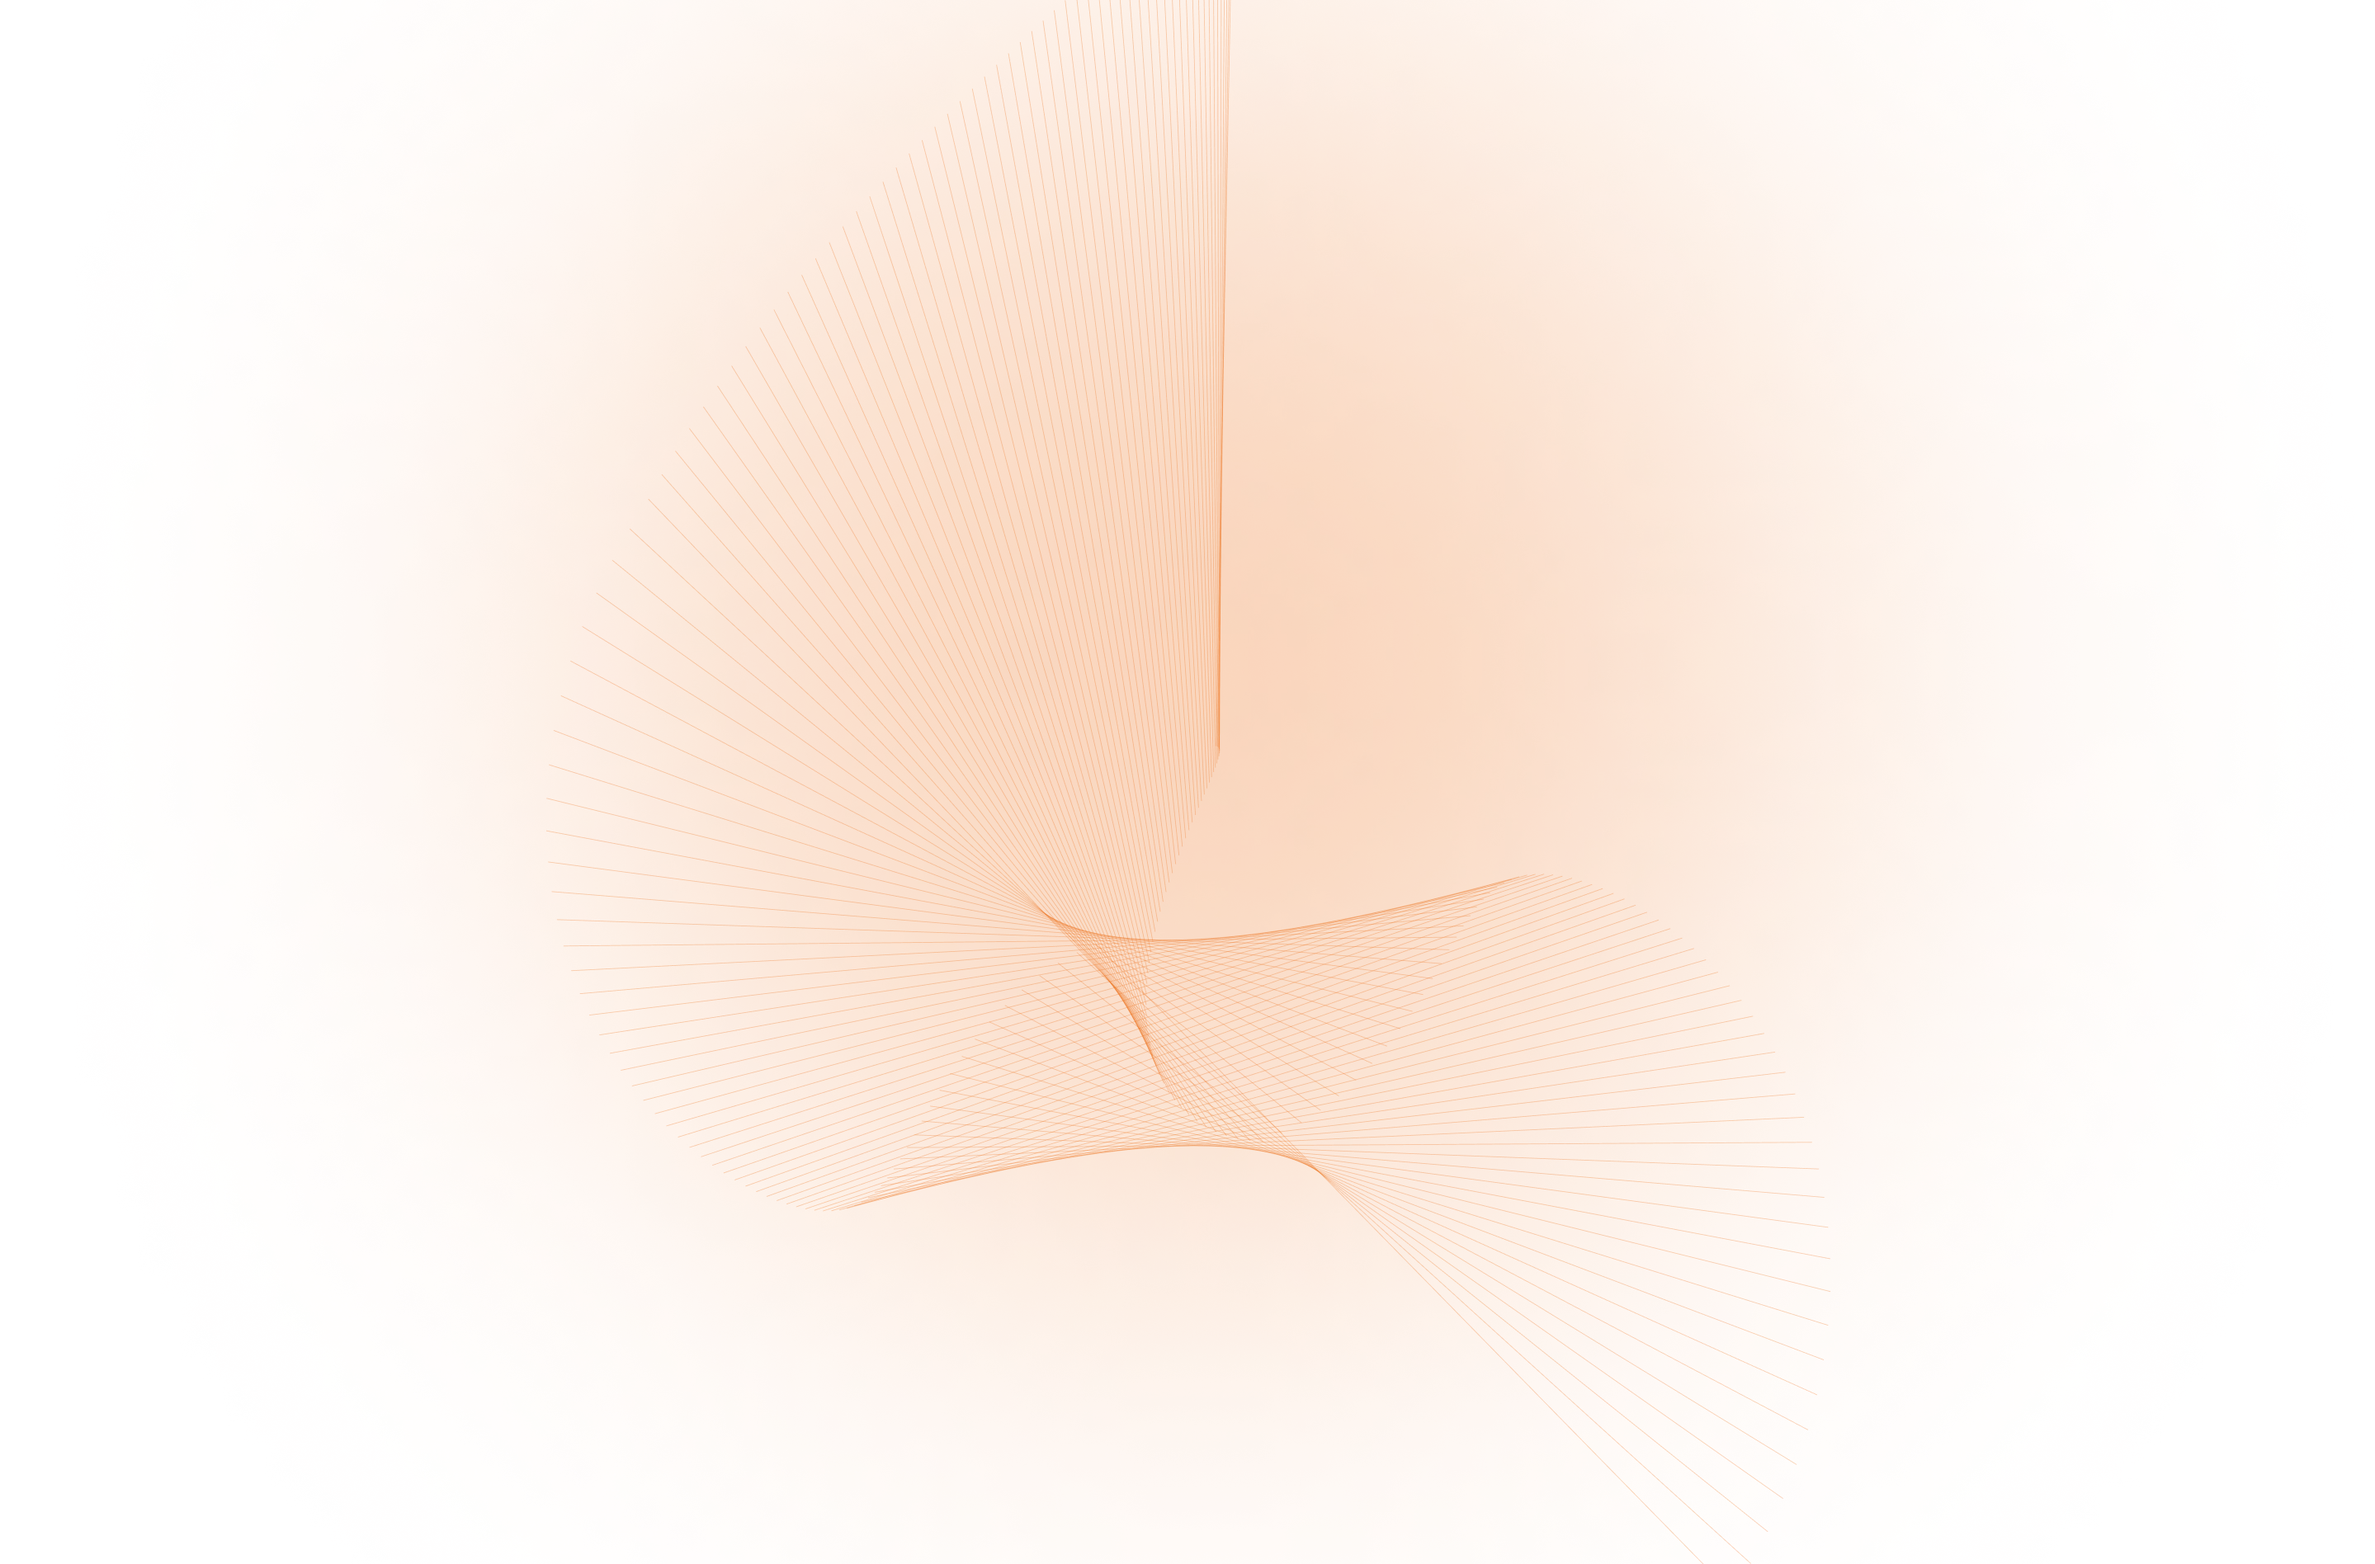
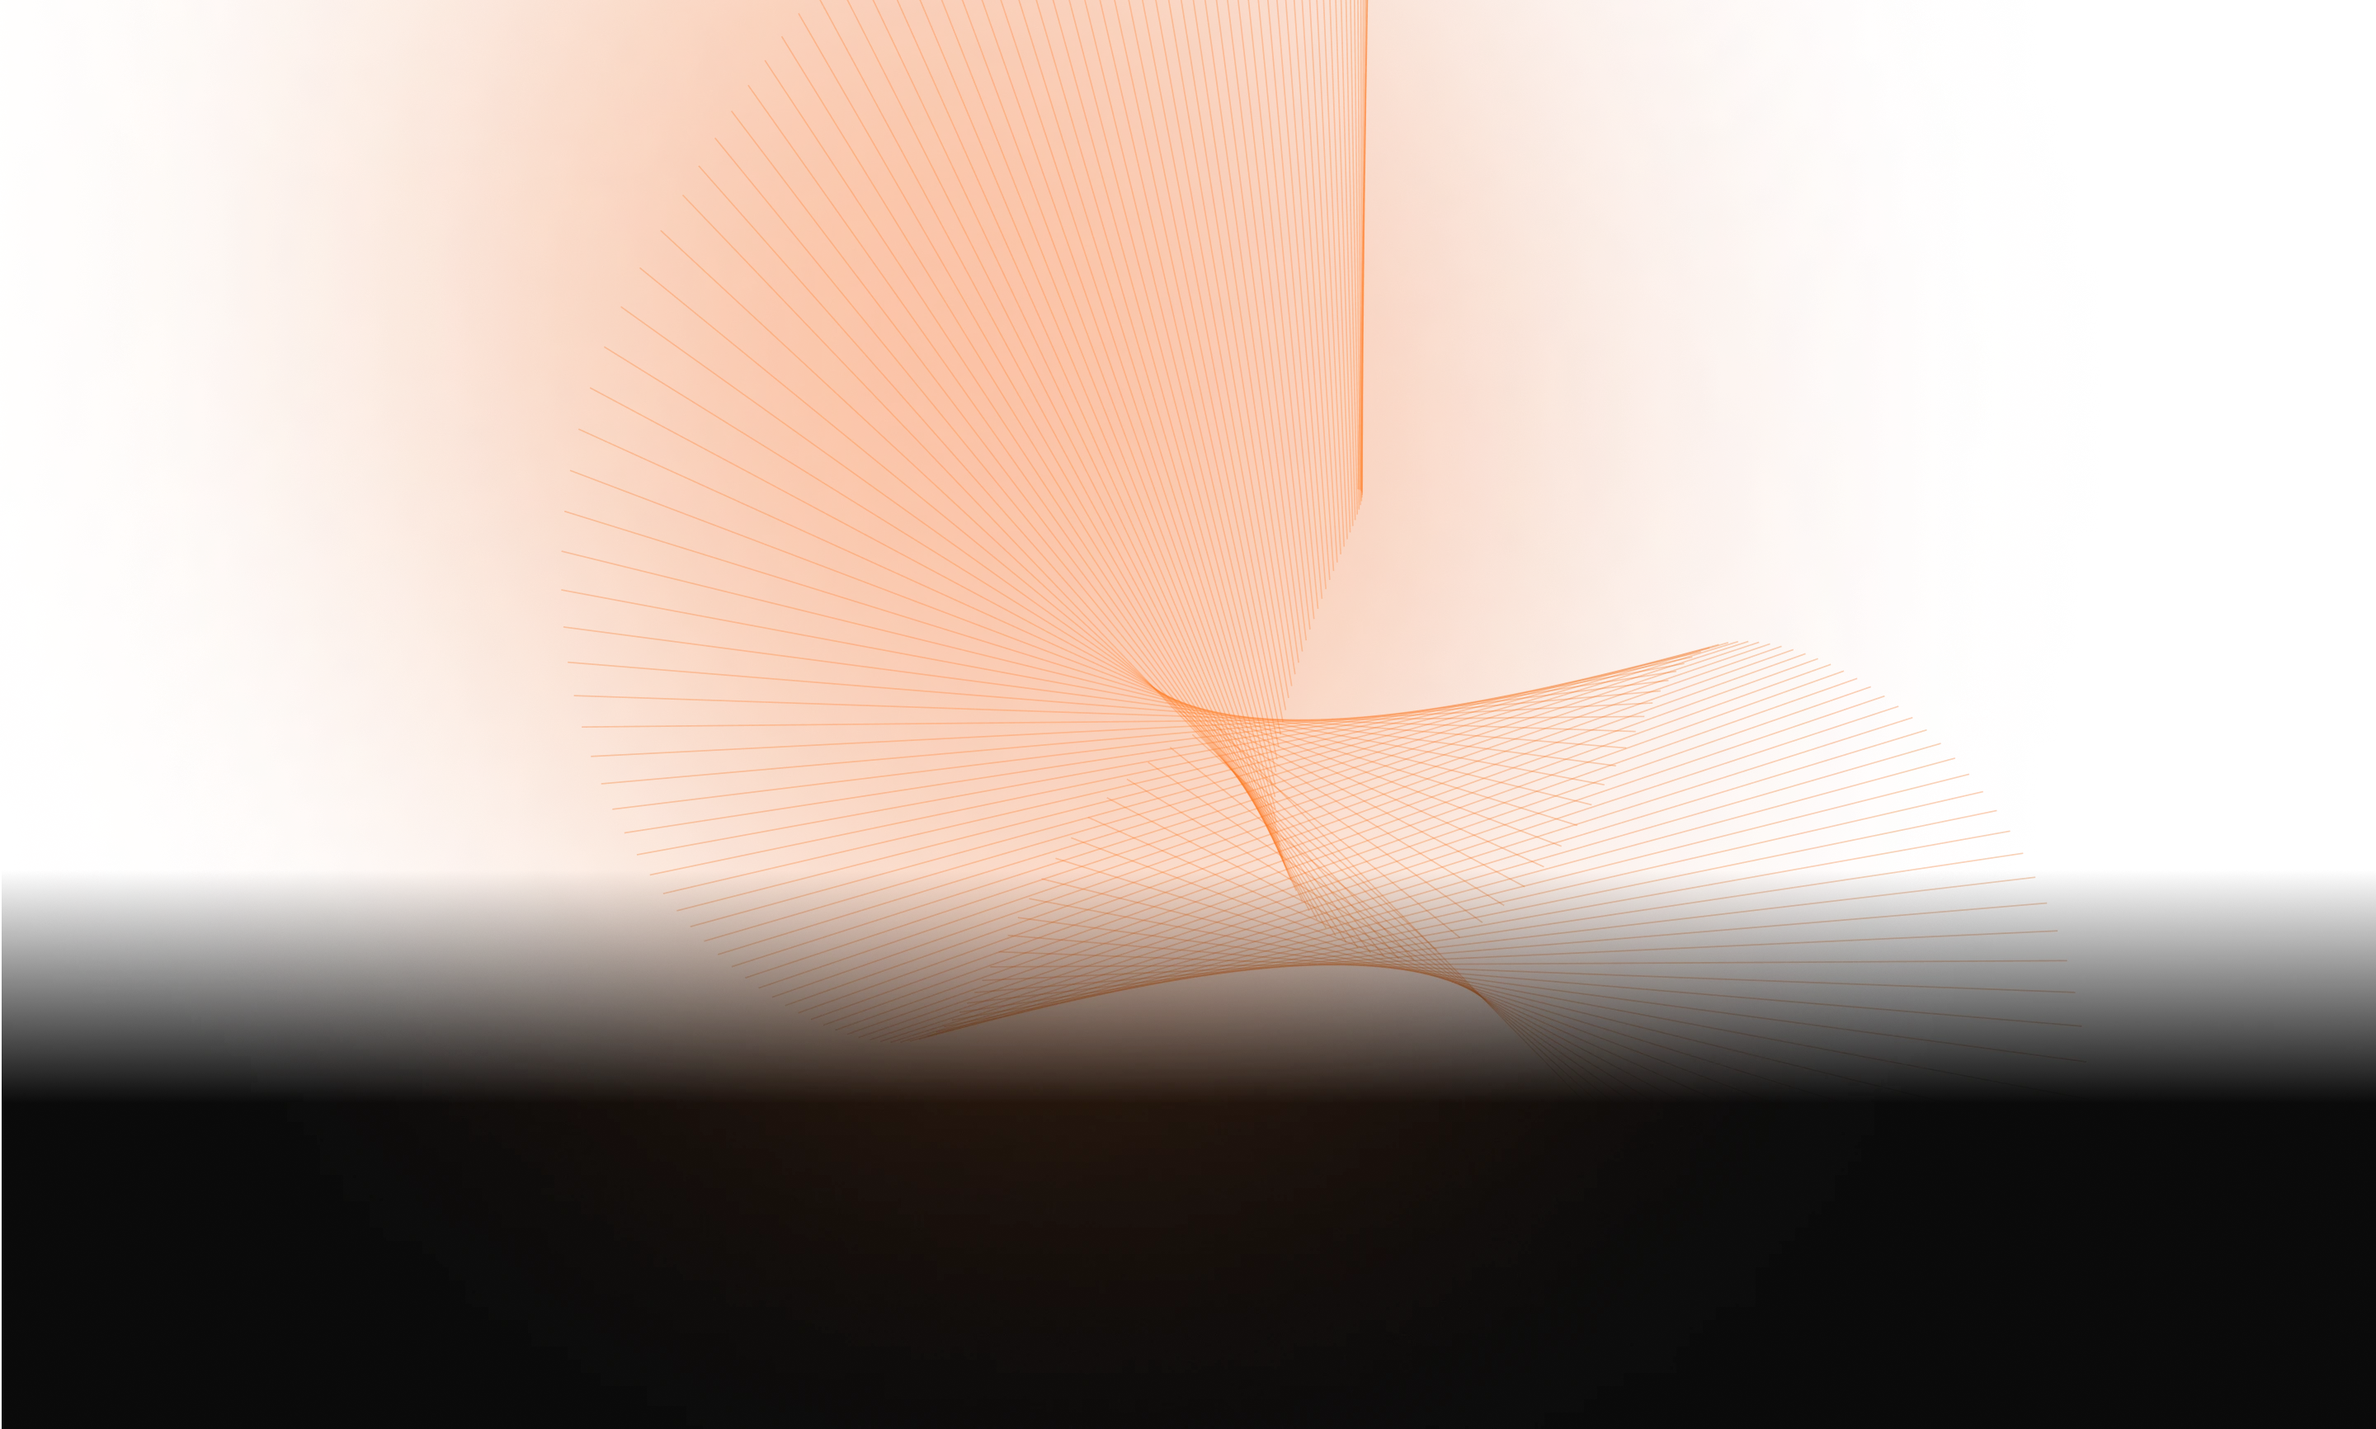
update/ autopilot styles

diff --git a/src/views/home/components/Autopilot/styled.components.js b/src/views/home/components/Autopilot/styled.components.js
@@ -1,11 +1,13 @@
 import styled from "styled-components"
 import AutopilotImage from "../../../../images/autopilot/autopilot-background.webp"
+import AutopilotImageMobile from "../../../../images/autopilot/autopilot-background_mobile.webp"
 
 export const AutopilotComponent = styled.div`
   padding-bottom: 40px;
   overflow: hidden;
   background-size: cover !important;
   background-position: center;
+  background-repeat: no-repeat;
   width: 100%;
   background-image: url(${AutopilotImage});
   display: block;
@@ -70,9 +72,10 @@ export const AutopilotComponent = styled.div`
 
   @media only screen and (max-width: 1020px) {
     .text-container {
-      padding: 60px 16px 90px 16px;
+      padding: 60px 0 24px 0;
       h1 {
         width: 100%;
+        max-width: 302px;
         box-sizing: border-box;
       }
 
@@ -82,15 +85,29 @@ export const AutopilotComponent = styled.div`
 
       p {
         width: 100%;
+        max-width: 288px;
         box-sizing: border-box;
       }
     }
 
-    .phone-circle {
-      width: 200px;
-      img {
-        width: 200px;
+    .gif-section {
+      width: 192px;
+      height: 187px;
+      margin: auto;
+      position: relative;
+      margin-bottom: 16px;
+
+      video {
+        width: 192px;
+        height: 187px;
       }
     }
+
+    .data-info {
+      margin-top: 16px;
+    }
+  }
+  @media only screen and (max-width: 600px) {
+    background-image: url(${AutopilotImageMobile});
   }
 `
